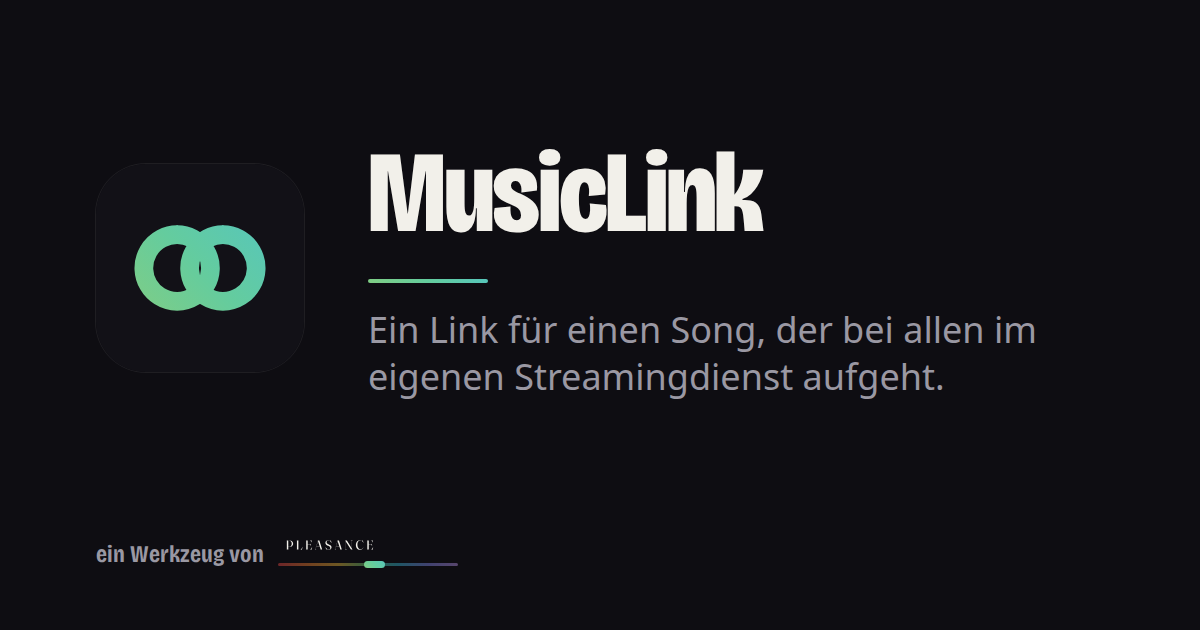
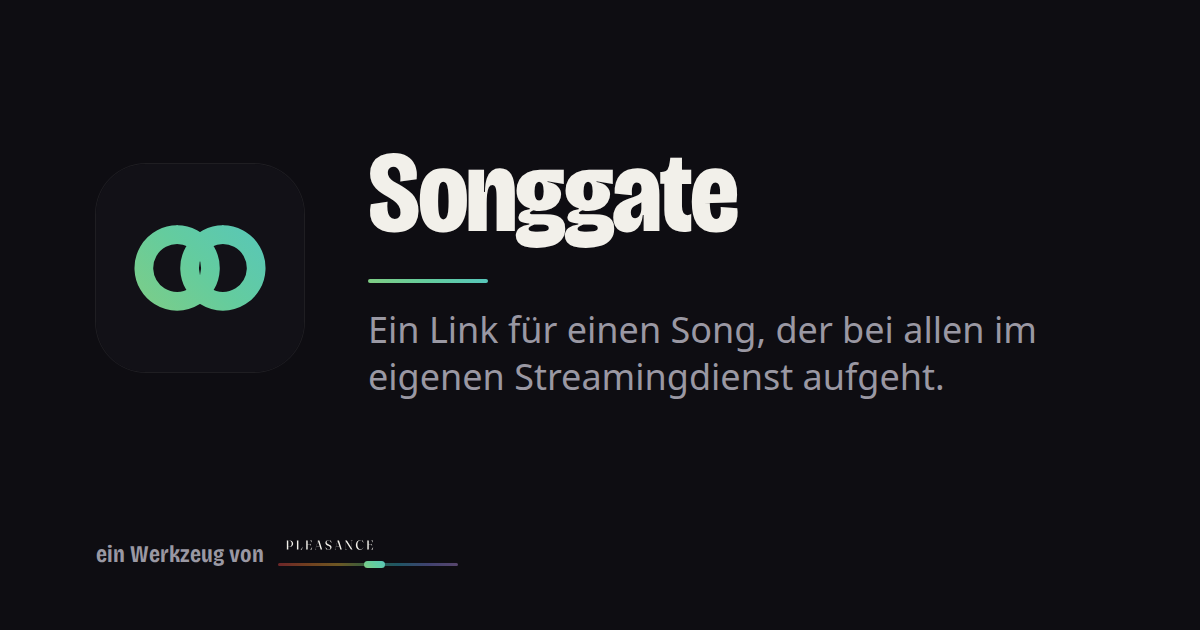
Rename MusicLink to Songgate and set the Android package

Changed region(s): [[0.3083, 0.2413, 0.6475, 0.3921]]

diff --git a/apps/web/src/routes/datenschutz/+page.svelte b/apps/web/src/routes/datenschutz/+page.svelte
@@ -3,7 +3,7 @@
 </script>
 
 <LegalPage title="Datenschutz" lang="de" other={{ href: '/privacy', label: 'English' }}>
-  <p>MusicLink funktioniert ohne Anmeldung, ohne Werbung und ohne Tracking. Diese Erklärung gilt für die Website und die Apps für iOS und Android.</p>
+  <p>Songgate funktioniert ohne Anmeldung, ohne Werbung und ohne Tracking. Diese Erklärung gilt für die Website und die Apps für iOS und Android.</p>
 
   <h2>Verantwortlicher</h2>
   <p>Robin Wahl, Pleasance, Bugginger Straße 37, 79114 Freiburg<br />E-Mail: <a href="mailto:hello@pleasance.org">hello@pleasance.org</a></p>
@@ -12,7 +12,7 @@
   <p>Website und Server laufen bei der Hetzner Online GmbH, Serverstandort ist Deutschland. Beim Aufruf fallen technisch notwendige Server-Logfiles an (IP-Adresse, Zeitpunkt, aufgerufene Adresse, Browser bzw. App-Version). Sie dienen nur dem sicheren Betrieb und werden nicht ausgewertet. Rechtsgrundlage ist Art. 6 Abs. 1 lit. f DSGVO.</p>
 
   <h2>Songs umwandeln</h2>
-  <p>Wenn du einen Link einfügst oder aus einer anderen App teilst, schickt MusicLink ihn an unseren Server. Der Server liest Titel und Interpret bei der jeweiligen Plattform aus und sucht den Song bei der Zielplattform. Dafür fragt er öffentliche Schnittstellen dieser Anbieter ab:</p>
+  <p>Wenn du einen Link einfügst oder aus einer anderen App teilst, schickt Songgate ihn an unseren Server. Der Server liest Titel und Interpret bei der jeweiligen Plattform aus und sucht den Song bei der Zielplattform. Dafür fragt er öffentliche Schnittstellen dieser Anbieter ab:</p>
   <ul>
     <li><strong>Apple</strong> (Apple Distribution International, Irland): iTunes Search API für Songs aus Apple Music</li>
     <li><strong>YouTube</strong> (Google Ireland Limited, Irland): Suche und Song-Angaben von YouTube Music</li>
@@ -23,14 +23,14 @@
   <p>Die Cover der Ergebnisse lädt dein Gerät direkt von den Servern der Plattformen (Apple, Google, Spotify, Deezer). Dabei sehen diese deine IP-Adresse. Öffnest du einen Song in einer Musik-App oder auf einer Plattform, gilt deren Datenschutzerklärung.</p>
 
   <h2>Einstellungen auf deinem Gerät</h2>
-  <p>Deine bevorzugte Zielplattform, den Dienst, den du auf einer geteilten Song-Seite zuletzt geöffnet hast, deine Freunde und Gruppen (Name und Musikdienst) und, falls angegeben, deine E-Mail-Adresse für Feedback merkt sich MusicLink lokal auf deinem Gerät. Freunde erreichen unseren Server nicht. Ein Einladungslink enthält nur den Namen und den Dienst, die du selbst angibst. Cookies setzen wir nicht.</p>
+  <p>Deine bevorzugte Zielplattform, den Dienst, den du auf einer geteilten Song-Seite zuletzt geöffnet hast, deine Freunde und Gruppen (Name und Musikdienst) und, falls angegeben, deine E-Mail-Adresse für Feedback merkt sich Songgate lokal auf deinem Gerät. Freunde erreichen unseren Server nicht. Ein Einladungslink enthält nur den Namen und den Dienst, die du selbst angibst. Cookies setzen wir nicht.</p>
 
   <h2>Feedback</h2>
   <p>Über „Feedback geben“ kannst du uns Fehler und Ideen schicken. Dabei übertragen wir deine Nachricht, auf Wunsch einen Screenshot und deine E-Mail-Adresse sowie technische Angaben (Seite, Plattform, Gerät, Fenstergröße, letzte Fehlermeldungen). Die Meldung wird auf unserem Server gespeichert und per E-Mail über die Proton AG (Schweiz) an uns weitergeleitet. Für die Schweiz besteht ein Angemessenheitsbeschluss der EU-Kommission. Gegen Missbrauch zählen wir Meldungen pro IP-Adresse, dieser Zähler wird nach einer Stunde gelöscht.</p>
   <p>Wir nutzen die Angaben nur, um die Meldung zu bearbeiten und dir zu antworten. Wir löschen sie, sobald sie erledigt ist, oder auf deinen Wunsch. Rechtsgrundlage ist Art. 6 Abs. 1 lit. f DSGVO, für die freiwillige E-Mail-Adresse Art. 6 Abs. 1 lit. a DSGVO.</p>
 
   <h2>Fehlerberichte</h2>
-  <p>Stürzt etwas ab, schickt MusicLink einen technischen Fehlerbericht an unsere eigene GlitchTip-Installation bei Hetzner in Deutschland. Dafür nutzen Website, Server und Apps das Open-Source-SDK von Sentry. Die Berichte gehen nur an unseren Server, nicht an die Functional Software, Inc. (Sentry). Sie enthalten Fehlermeldung, Programmstelle, App- bzw. Browser-Version, Betriebssystem und Gerätetyp, aber keine Cookies, Eingaben oder personenbezogenen Angaben, und werden nach 90 Tagen gelöscht. Rechtsgrundlage ist Art. 6 Abs. 1 lit. f DSGVO.</p>
+  <p>Stürzt etwas ab, schickt Songgate einen technischen Fehlerbericht an unsere eigene GlitchTip-Installation bei Hetzner in Deutschland. Dafür nutzen Website, Server und Apps das Open-Source-SDK von Sentry. Die Berichte gehen nur an unseren Server, nicht an die Functional Software, Inc. (Sentry). Sie enthalten Fehlermeldung, Programmstelle, App- bzw. Browser-Version, Betriebssystem und Gerätetyp, aber keine Cookies, Eingaben oder personenbezogenen Angaben, und werden nach 90 Tagen gelöscht. Rechtsgrundlage ist Art. 6 Abs. 1 lit. f DSGVO.</p>
 
   <h2>Deine Rechte</h2>
   <p>Du hast das Recht auf Auskunft, Berichtigung, Löschung, Einschränkung der Verarbeitung, Datenübertragbarkeit und Widerspruch. Schreib uns dafür an <a href="mailto:hello@pleasance.org">hello@pleasance.org</a>. Außerdem kannst du dich bei einer Datenschutz-Aufsichtsbehörde beschweren, zum Beispiel beim Landesbeauftragten für den Datenschutz und die Informationsfreiheit Baden-Württemberg.</p>

diff --git a/apps/web/src/routes/privacy/+page.svelte b/apps/web/src/routes/privacy/+page.svelte
@@ -3,7 +3,7 @@
 </script>
 
 <LegalPage title="Privacy policy" lang="en" other={{ href: '/datenschutz', label: 'Deutsch' }}>
-  <p>MusicLink works without sign-up, without ads and without tracking. This policy applies to the website and the apps for iOS and Android.</p>
+  <p>Songgate works without sign-up, without ads and without tracking. This policy applies to the website and the apps for iOS and Android.</p>
 
   <h2>Controller</h2>
   <p>Robin Wahl, Pleasance, Bugginger Straße 37, 79114 Freiburg, Germany<br />Email: <a href="mailto:hello@pleasance.org">hello@pleasance.org</a></p>
@@ -12,7 +12,7 @@
   <p>Website and server run at Hetzner Online GmbH, servers located in Germany. Each request creates technically necessary server log files (IP address, time, requested address, browser or app version). They serve only secure operation and are not analysed. Legal basis is Art. 6(1)(f) GDPR.</p>
 
   <h2>Converting songs</h2>
-  <p>When you paste a link or share it from another app, MusicLink sends it to our server. The server reads title and artist from the source platform and looks the song up on the target platform. To do so it queries public interfaces of these providers:</p>
+  <p>When you paste a link or share it from another app, Songgate sends it to our server. The server reads title and artist from the source platform and looks the song up on the target platform. To do so it queries public interfaces of these providers:</p>
   <ul>
     <li><strong>Apple</strong> (Apple Distribution International, Ireland): iTunes Search API for songs on Apple Music</li>
     <li><strong>YouTube</strong> (Google Ireland Limited, Ireland): search and song details from YouTube Music</li>
@@ -23,14 +23,14 @@
   <p>Your device loads the cover images of the results directly from the platforms' servers (Apple, Google, Spotify, Deezer), which see your IP address. When you open a song in a music app or on a platform, its privacy policy applies.</p>
 
   <h2>Settings on your device</h2>
-  <p>MusicLink stores your preferred target platform, the service you last opened on a shared song page, your friends and groups (name and music service) and, if given, your email address for feedback locally on your device. Friends never reach our server. An invite link only contains the name and service you enter yourself. We don't set cookies.</p>
+  <p>Songgate stores your preferred target platform, the service you last opened on a shared song page, your friends and groups (name and music service) and, if given, your email address for feedback locally on your device. Friends never reach our server. An invite link only contains the name and service you enter yourself. We don't set cookies.</p>
 
   <h2>Feedback</h2>
   <p>With „Feedback geben“ you can send us bugs and ideas. We transmit your message, a screenshot if you like, your email address and technical details (page, platform, device, window size, latest error messages). The report is stored on our server and forwarded to us by email via Proton AG (Switzerland). The European Commission has issued an adequacy decision for Switzerland. Against abuse we count reports per IP address; this counter is deleted after one hour.</p>
   <p>We only use these details to handle the report and to reply to you. We delete them once the report is done, or on your request. Legal basis is Art. 6(1)(f) GDPR, for the optional email address Art. 6(1)(a) GDPR.</p>
 
   <h2>Error reports</h2>
-  <p>When something crashes, MusicLink sends a technical error report to our own GlitchTip installation at Hetzner in Germany. Website, server and apps use Sentry's open-source SDK for this. Reports go only to our server, not to Functional Software, Inc. (Sentry). They contain the error message, code location, app or browser version, operating system and device type, but no cookies, input or personal data, and are deleted after 90 days. Legal basis is Art. 6(1)(f) GDPR.</p>
+  <p>When something crashes, Songgate sends a technical error report to our own GlitchTip installation at Hetzner in Germany. Website, server and apps use Sentry's open-source SDK for this. Reports go only to our server, not to Functional Software, Inc. (Sentry). They contain the error message, code location, app or browser version, operating system and device type, but no cookies, input or personal data, and are deleted after 90 days. Legal basis is Art. 6(1)(f) GDPR.</p>
 
   <h2>Your rights</h2>
   <p>You have the right to access, rectification, erasure, restriction of processing, data portability and objection. Write to <a href="mailto:hello@pleasance.org">hello@pleasance.org</a>. You can also lodge a complaint with a data protection authority, for example the State Commissioner for Data Protection and Freedom of Information Baden-Württemberg.</p>

diff --git a/apps/mobile/lib/features/converter/share_setup.dart b/apps/mobile/lib/features/converter/share_setup.dart
@@ -62,7 +62,7 @@ class _ShareSetupState extends State<ShareSetup> {
                     : () => setState(() => _guide = false),
               )
             : null,
-        title: const MusicLinkBrand(),
+        title: const SonggateBrand(),
       ),
       body: SafeArea(
         child: Center(
@@ -100,7 +100,7 @@ class _ShareSetupState extends State<ShareSetup> {
                 const SizedBox(height: 18),
                 Text(
                   _guide
-                      ? 'Füge MusicLink zu deinen Favoriten im iPhone-Teilen-Menü hinzu.'
+                      ? 'Füge Songgate zu deinen Favoriten im iPhone-Teilen-Menü hinzu.'
                       : 'Teile Musik in dem Dienst, den deine Freunde nutzen. Direkt aus deiner Musik-App.',
                   style: theme.textTheme.bodyLarge,
                 ),
@@ -114,12 +114,12 @@ class _ShareSetupState extends State<ShareSetup> {
                     ),
                     (
                       '02',
-                      '„Bearbeiten“ → Plus bei MusicLink',
-                      'Damit kommt MusicLink zu deinen Favoriten.',
+                      '„Bearbeiten“ → Plus bei Songgate',
+                      'Damit kommt Songgate zu deinen Favoriten.',
                     ),
                     (
                       '03',
-                      'MusicLink nach oben ziehen',
+                      'Songgate nach oben ziehen',
                       'Über den Griff rechts. Dann auf „Fertig“ tippen.',
                     ),
                   ])
@@ -167,11 +167,11 @@ class _ShareSetupState extends State<ShareSetup> {
                           color: theme.colorScheme.primary,
                         ),
                         const SizedBox(width: 14),
-                        const MusicLinkMark(size: 32),
+                        const SonggateMark(size: 32),
                         const SizedBox(width: 8),
                         Expanded(
                           child: Text(
-                            'MusicLink',
+                            'Songgate',
                             style: theme.textTheme.titleMedium,
                           ),
                         ),
@@ -228,7 +228,7 @@ class _ShareSetupState extends State<ShareSetup> {
                               size: 40,
                             ),
                             const Icon(Icons.arrow_forward, size: 18),
-                            const MusicLinkMark(size: 64),
+                            const SonggateMark(size: 64),
                             const Icon(Icons.arrow_forward, size: 18),
                             const Icon(
                               Icons.music_note,
@@ -239,7 +239,7 @@ class _ShareSetupState extends State<ShareSetup> {
                         ),
                         const SizedBox(height: 20),
                         const Text(
-                          'YouTube Music → MusicLink → Apple Music',
+                          'YouTube Music → Songgate → Apple Music',
                           textAlign: TextAlign.center,
                         ),
                       ],
@@ -249,7 +249,7 @@ class _ShareSetupState extends State<ShareSetup> {
                   for (final text in const [
                     'Ohne Anmeldung loslegen',
                     'In deiner Musik-App bleiben',
-                    'MusicLink einmal nach vorne holen',
+                    'Songgate einmal nach vorne holen',
                   ])
                     Padding(
                       padding: const EdgeInsets.only(bottom: 14),

diff --git a/apps/api/src/lib/public-pages.ts b/apps/api/src/lib/public-pages.ts
@@ -22,9 +22,9 @@ export function publicPages(locale: Locale, url: string): PublicPage[] {
         body: [
           'Share songs from YouTube Music, Apple Music, Spotify or Deezer as a link for your people’s favourite player. No account, no stored song history. The website is in German.',
           '## How it works',
-          '1. Bring a song: copy its link in your music app via “Share”.\n2. Find the recording: MusicLink looks for the matching song on the target service and shows the matches.\n3. Pass it on: copy the right link and share it. Or share one link for everyone, where each person picks their own service.',
+          '1. Bring a song: copy its link in your music app via “Share”.\n2. Find the recording: Songgate looks for the matching song on the target service and shows the matches.\n3. Pass it on: copy the right link and share it. Or share one link for everyone, where each person picks their own service.',
           '## Friends and groups',
-          'Save friends with their music service, and MusicLink builds one message with a link per service. Friends and groups stay on your device, an invite link only carries a name and a service.',
+          'Save friends with their music service, and Songgate builds one message with a link per service. Friends and groups stay on your device, an invite link only carries a name and a service.',
         ].join('\n\n'),
       },
       { path: '/imprint', title: 'Imprint', description: `Provider and contact of ${APP_NAME}.`, body: fullText('/imprint') },
@@ -39,9 +39,9 @@ export function publicPages(locale: Locale, url: string): PublicPage[] {
       body: [
         'Teile Songs aus YouTube Music, Apple Music, Spotify oder Deezer als Link für den Lieblingsplayer deiner Menschen. Ohne Konto, ohne gespeicherte Song-Historie.',
         '## So funktioniert’s',
-        '1. Song mitbringen: Den Link in deiner Musik-App über „Teilen“ kopieren.\n2. Aufnahme finden: MusicLink sucht den passenden Song beim Zieldienst und zeigt dir die Treffer.\n3. Freude weitergeben: Passenden Link kopieren und teilen. Oder ein Link für alle, auf dem jeder seinen Dienst wählt.',
+        '1. Song mitbringen: Den Link in deiner Musik-App über „Teilen“ kopieren.\n2. Aufnahme finden: Songgate sucht den passenden Song beim Zieldienst und zeigt dir die Treffer.\n3. Freude weitergeben: Passenden Link kopieren und teilen. Oder ein Link für alle, auf dem jeder seinen Dienst wählt.',
         '## Freunde und Gruppen',
-        'Speichere Freunde mit ihrem Musikdienst, dann baut MusicLink eine Nachricht mit einem Link pro Dienst. Freunde und Gruppen bleiben auf deinem Gerät, ein Einladungslink enthält nur Namen und Dienst.',
+        'Speichere Freunde mit ihrem Musikdienst, dann baut Songgate eine Nachricht mit einem Link pro Dienst. Freunde und Gruppen bleiben auf deinem Gerät, ein Einladungslink enthält nur Namen und Dienst.',
       ].join('\n\n'),
     },
     { path: '/impressum', title: 'Impressum', description: `Anbieter und Kontakt von ${APP_NAME}.`, body: fullText('/impressum') },

diff --git a/apps/web/src/routes/f/[service]/+page.svelte b/apps/web/src/routes/f/[service]/+page.svelte
@@ -26,7 +26,7 @@
     const me = { name: myName.trim().slice(0, 40), platform: mine };
     setMe(me);
     const url = inviteUrl(page.url.origin, me);
-    const text = `Ich höre auf ${platforms[mine]}. Speicher mich in MusicLink, dann bekomme ich deine Songs immer passend:`;
+    const text = `Ich höre auf ${platforms[mine]}. Speicher mich in Songgate, dann bekomme ich deine Songs immer passend:`;
     try {
       if (typeof navigator.share === 'function') await navigator.share({ text, url });
       else { await navigator.clipboard.writeText(`${text}\n${url}`); toast('Einladung kopiert. Schick sie an ' + name + '.'); }
@@ -35,11 +35,11 @@
 </script>
 
 <svelte:head>
-  <title>{platform && name ? `${name} hört auf ${platforms[platform]}` : 'Einladung'} · MusicLink</title>
+  <title>{platform && name ? `${name} hört auf ${platforms[platform]}` : 'Einladung'} · Songgate</title>
 </svelte:head>
 
 <div class="shell">
-  <header><a href="/" class="brand"><img class="brand-icon" src="/favicon.svg" alt="" width="38" height="38" /> MusicLink</a><span class="badge">Ohne Anmeldung</span></header>
+  <header><a href="/" class="brand"><img class="brand-icon" src="/favicon.svg" alt="" width="38" height="38" /> Songgate</a><span class="badge">Ohne Anmeldung</span></header>
   <main>
     {#if !platform || !name}
       <section class="card"><h1>Diese Einladung ist unvollständig.</h1><p>Bitte um einen neuen Einladungslink.</p></section>
@@ -49,7 +49,7 @@
         <h1>{name} hört auf {platforms[platform]}</h1>
         <p>Speicher {name}, dann landen deine Songs bei {name} immer direkt in {platforms[platform]}.</p>
         <div class="actions">
-          <a class="button primary" href="musiclink://app/friend?{new URLSearchParams({ name, service: page.params.service ?? '' })}">In der MusicLink-App speichern</a>
+          <a class="button primary" href="musiclink://app/friend?{new URLSearchParams({ name, service: page.params.service ?? '' })}">In der Songgate-App speichern</a>
           <button class="secondary" onclick={save} disabled={saved}>{saved ? `✓ ${name} ist gespeichert` : 'Hier im Browser speichern'}</button>
         </div>
         <div class="answer">

diff --git a/apps/mobile/ios/ShareExtension/ShareView.swift b/apps/mobile/ios/ShareExtension/ShareView.swift
@@ -76,7 +76,7 @@ struct ShareView: View {
                                 .padding(.top, 12)
                             }
                             if model.friends.isEmpty {
-                                Text("Tipp: In der MusicLink-App speicherst du Freunde mit ihrem Dienst und teilst an mehrere auf einmal.")
+                                Text("Tipp: In der Songgate-App speicherst du Freunde mit ihrem Dienst und teilst an mehrere auf einmal.")
                                     .font(.caption)
                                     .foregroundStyle(.secondary)
                                     .multilineTextAlignment(.center)
@@ -109,14 +109,14 @@ struct ShareView: View {
                 .padding(.horizontal)
             }
             .background(Color(red: 251 / 255, green: 252 / 255, blue: 247 / 255))
-            .navigationTitle("MusicLink")
+            .navigationTitle("Songgate")
             .navigationBarTitleDisplayMode(.inline)
             .toolbar {
                 ToolbarItem(placement: .primaryAction) {
                     Button { showingGuide = true } label: {
                         Image(systemName: "star")
                     }
-                    .accessibilityLabel("MusicLink griffbereit")
+                    .accessibilityLabel("Songgate griffbereit")
                 }
                 ToolbarItem(placement: .cancellationAction) {
                     Button("Schließen", action: finish)
@@ -128,9 +128,9 @@ struct ShareView: View {
         .sheet(isPresented: $showingGuide) {
             NavigationStack {
                 Form {
-                    Text("Im Teilen-Menü: Mehr → Bearbeiten → Plus bei MusicLink. Ziehe MusicLink über den Griff nach oben und tippe auf Fertig.")
+                    Text("Im Teilen-Menü: Mehr → Bearbeiten → Plus bei Songgate. Ziehe Songgate über den Griff nach oben und tippe auf Fertig.")
                 }
-                .navigationTitle("MusicLink griffbereit")
+                .navigationTitle("Songgate griffbereit")
                 .navigationBarTitleDisplayMode(.inline)
                 .toolbar {
                     ToolbarItem(placement: .confirmationAction) {

diff --git a/apps/api/src/lib/music.ts b/apps/api/src/lib/music.ts
@@ -85,7 +85,7 @@ export function sharePath(source: Source) {
 function session(requestSignal: AbortSignal | undefined, fetcher: Fetch) {
   const controller = new AbortController();
   const signal = AbortSignal.any([controller.signal, AbortSignal.timeout(20_000), ...(requestSignal ? [requestSignal] : [])]);
-  const request = async (origin: string, params: Record<string, string>, headers = { 'user-agent': 'MusicLink/0.3' }) => {
+  const request = async (origin: string, params: Record<string, string>, headers = { 'user-agent': 'Songgate/0.3' }) => {
     const url = new URL(origin);
     url.search = new URLSearchParams(params).toString();
     const response = await fetcher(url, { signal, redirect: 'error', headers });
@@ -138,7 +138,7 @@ function loadSource(parsed: Source, { request, get, signal }: Session): Promise<
       if (!track) throw new ResolutionError('SOURCE_UNAVAILABLE');
       source = { title: track.trackName, artist: track.artistName, url: `https://music.apple.com/${parsed.country.toLowerCase()}/song/${parsed.id}`, ...(track.trackTimeMillis ? { durationSeconds: track.trackTimeMillis / 1000 } : {}), artworkUrl: https(track.artworkUrl100?.replace('/100x100bb.', '/600x600bb.')) };
     } else if (parsed.platform === 'spotify') {
-      const html = await (await request(`https://open.spotify.com/track/${parsed.id}`, {}, { 'user-agent': 'Mozilla/5.0 (compatible; MusicLink/0.3)' })).text();
+      const html = await (await request(`https://open.spotify.com/track/${parsed.id}`, {}, { 'user-agent': 'Mozilla/5.0 (compatible; Songgate/0.3)' })).text();
       const duration = Number(spotifyMeta(html, 'music:duration'));
       source = { title: spotifyMeta(html, 'og:title') ?? '', artist: spotifyMeta(html, 'music:musician_description') ?? '', url: `https://open.spotify.com/track/${parsed.id}`, ...(duration > 0 ? { durationSeconds: duration } : {}), artworkUrl: https(spotifyMeta(html, 'og:image')) };
     } else {

diff --git a/apps/mobile/lib/features/converter/converter_screen.dart b/apps/mobile/lib/features/converter/converter_screen.dart
@@ -408,7 +408,7 @@ class _ConverterScreenState extends ConsumerState<ConverterScreen>
     final theme = Theme.of(context);
     return Scaffold(
       appBar: AppBar(
-        title: const MusicLinkBrand(),
+        title: const SonggateBrand(),
         backgroundColor: Colors.transparent,
         leading: conversion == null
             ? null
@@ -572,7 +572,7 @@ class _ConverterScreenState extends ConsumerState<ConverterScreen>
                               ),
                               const SizedBox(height: 8),
                               const Text(
-                                'Hole MusicLink nach vorne ins Teilen-Menü. Dann sparst du dir das Einfügen.',
+                                'Hole Songgate nach vorne ins Teilen-Menü. Dann sparst du dir das Einfügen.',
                               ),
                               TextButton.icon(
                                 onPressed: _loading ? null : _openGuide,
@@ -584,7 +584,7 @@ class _ConverterScreenState extends ConsumerState<ConverterScreen>
                         )
                       else
                         const Text(
-                          'Direkt aus deiner Musik-App: Öffne bei einem Song das Teilen-Menü und wähle MusicLink.',
+                          'Direkt aus deiner Musik-App: Öffne bei einem Song das Teilen-Menü und wähle Songgate.',
                         ),
                       const SizedBox(height: 24),
                       Text(

diff --git a/packages/shared/src/index.ts b/packages/shared/src/index.ts
@@ -1,9 +1,9 @@
 import { z } from 'zod';
 
-export const APP_NAME = 'MusicLink';
+export const APP_NAME = 'Songgate';
 export const APP_BAND = { from: 3.85, to: 4.55 };
 export const APP_TAGLINE = 'Ein Link für einen Song, der bei allen im eigenen Streamingdienst aufgeht.';
-// True once MusicLink is live as 1.0 (starter README, "Live als 1.0"). From then on
+// True once Songgate is live as 1.0 (starter README, "Live als 1.0"). From then on
 // the bug button waits for the test mode switch, see testMode in the web's feedback.svelte.ts.
 export const LIVE = false;
 export { bandColor, bandGradient, DEEP, GLOW } from './band';
@@ -20,7 +20,7 @@ export const conversionInput = z.object({
 export type ConversionInput = z.infer<typeof conversionInput>;
 
 export const failureMessages = {
-  INVALID_LINK: 'Teile bitte einen einzelnen Song aus YouTube Music, Apple Music, Spotify oder Deezer mit MusicLink.',
+  INVALID_LINK: 'Teile bitte einen einzelnen Song aus YouTube Music, Apple Music, Spotify oder Deezer mit Songgate.',
   UNSUPPORTED_LINK: 'Teile einen Song aus YouTube Music, Apple Music, Spotify oder Deezer und wähle einen anderen Zieldienst.',
   SOURCE_UNAVAILABLE: 'Die Angaben zu diesem Song konnten nicht geladen werden.',
   NO_MATCH: 'Für diese Aufnahme wurde kein passender Treffer gefunden.',

diff --git a/apps/web/src/routes/s/[...path]/+page.svelte b/apps/web/src/routes/s/[...path]/+page.svelte
@@ -17,10 +17,10 @@
   }
 </script>
 
-<svelte:head><title>{song.source.title} · {song.source.artist} · MusicLink</title></svelte:head>
+<svelte:head><title>{song.source.title} · {song.source.artist} · Songgate</title></svelte:head>
 
 <div class="shell">
-  <header><a href="/" class="brand"><img class="brand-icon" src="/favicon.svg" alt="" width="38" height="38" /> MusicLink</a><span class="badge">Ohne Anmeldung</span></header>
+  <header><a href="/" class="brand"><img class="brand-icon" src="/favicon.svg" alt="" width="38" height="38" /> Songgate</a><span class="badge">Ohne Anmeldung</span></header>
   <main>
     <section class="card">
       <div class="song">
@@ -37,7 +37,7 @@
         </a>
       {/each}
     </section>
-    <p class="more">Selbst einen Song teilen? <a href="/">MusicLink öffnen</a></p>
+    <p class="more">Selbst einen Song teilen? <a href="/">Songgate öffnen</a></p>
   </main>
   <PleasanceFooter />
 </div>

diff --git a/apps/mobile/lib/core/brand.dart b/apps/mobile/lib/core/brand.dart
@@ -190,8 +190,8 @@ ThemeData buildTheme() {
   );
 }
 
-class MusicLinkMark extends StatelessWidget {
-  const MusicLinkMark({super.key, this.size = 38});
+class SonggateMark extends StatelessWidget {
+  const SonggateMark({super.key, this.size = 38});
 
   final double size;
 
@@ -204,14 +204,14 @@ class MusicLinkMark extends StatelessWidget {
   );
 }
 
-class MusicLinkBrand extends StatelessWidget {
-  const MusicLinkBrand({super.key});
+class SonggateBrand extends StatelessWidget {
+  const SonggateBrand({super.key});
 
   @override
   Widget build(BuildContext context) => Row(
     mainAxisSize: MainAxisSize.min,
     children: [
-      const MusicLinkMark(),
+      const SonggateMark(),
       const SizedBox(width: 11),
       Flexible(
         child: Text(appName, style: Theme.of(context).textTheme.titleLarge),

diff --git a/apps/web/src/lib/components/LegalPage.svelte b/apps/web/src/lib/components/LegalPage.svelte
@@ -5,10 +5,10 @@
   let { title, lang, other, children }: { title: string; lang: 'de' | 'en'; other: { href: string; label: string }; children: Snippet } = $props();
 </script>
 
-<svelte:head><title>{title} · MusicLink</title></svelte:head>
+<svelte:head><title>{title} · Songgate</title></svelte:head>
 
 <div class="shell">
-  <header><a href="/" class="brand"><img class="brand-icon" src="/favicon.svg" alt="" width="42" height="42" /> MusicLink</a></header>
+  <header><a href="/" class="brand"><img class="brand-icon" src="/favicon.svg" alt="" width="42" height="42" /> Songgate</a></header>
   <main {lang}>
     <a class="other" href={other.href} hreflang={lang === 'de' ? 'en' : 'de'}>{other.label}</a>
     <h1>{title}</h1>
